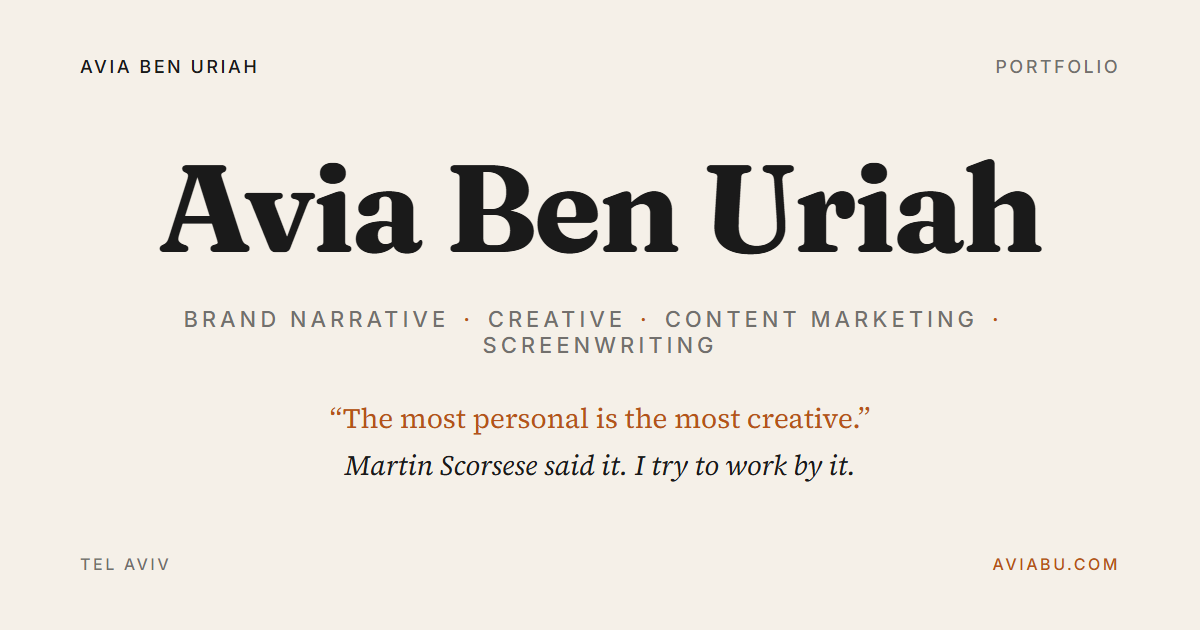
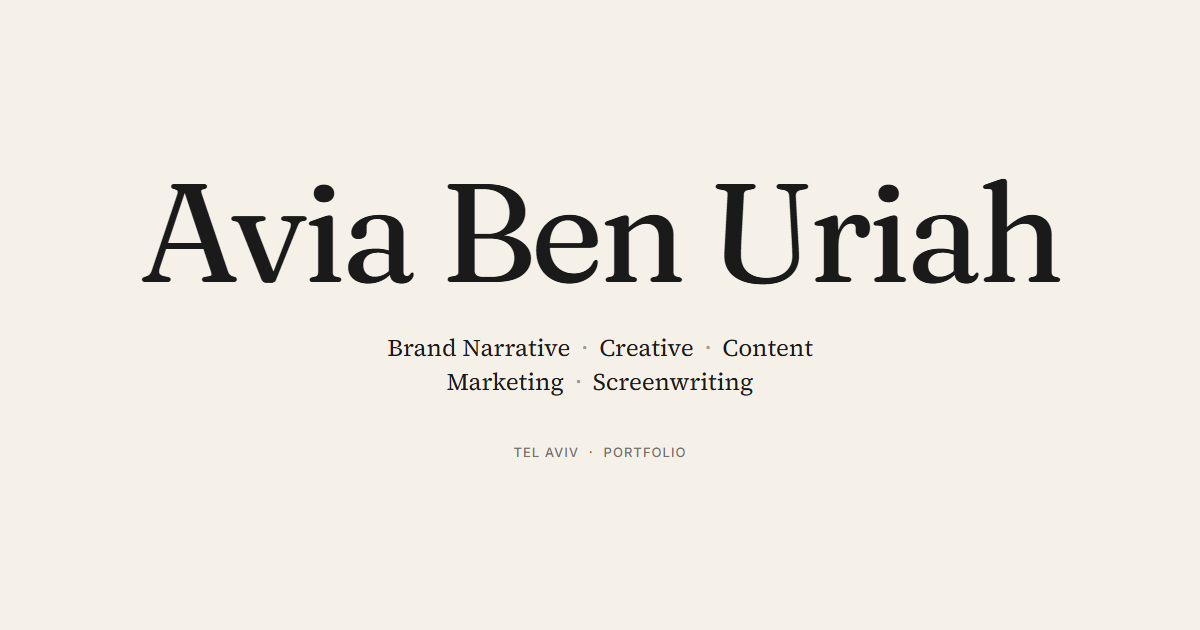
Update Open Graph images and enhance styling in og.html; add new font-face and adjust layout

diff --git a/site/og.html b/site/og.html
@@ -7,6 +7,13 @@
     <style>
         @font-face {
             font-family: "Fraunces";
+            src: url("fonts/fraunces-v38-latin-regular.woff2") format("woff2");
+            font-weight: 400;
+            font-style: normal;
+            font-display: block;
+        }
+        @font-face {
+            font-family: "Fraunces";
             src: url("fonts/fraunces-v38-latin-700.woff2") format("woff2");
             font-weight: 700;
             font-style: normal;
@@ -37,6 +44,7 @@
         :root {
             --paper: #F5F0E8;
             --ink: #1A1A1A;
+            --ink-40: rgba(26, 26, 26, 0.40);
             --ink-60: rgba(26, 26, 26, 0.60);
             --rust: #B4531A;
         }
@@ -55,114 +63,80 @@
             font-family: "Source Serif 4", Georgia, serif;
             display: flex;
             flex-direction: column;
-            justify-content: space-between;
-            box-sizing: border-box;
-            padding: 56px 80px;
-        }
-
-        .top {
-            display: flex;
-            justify-content: space-between;
-            align-items: baseline;
-            font-family: "Inter", system-ui, sans-serif;
-            font-weight: 500;
-            font-size: 18px;
-            letter-spacing: 0.14em;
-            text-transform: uppercase;
-            color: var(--ink);
-        }
-
-        .top__meta { color: var(--ink-60); }
-
-        .hero {
-            flex: 1;
-            display: flex;
-            flex-direction: column;
+            align-items: center;
             justify-content: center;
+            box-sizing: border-box;
+            padding: 80px 96px;
             text-align: center;
         }
 
         .name {
             font-family: "Fraunces", Georgia, serif;
-            font-weight: 700;
-            font-size: 124px;
-            line-height: 1;
-            letter-spacing: -0.02em;
+            font-weight: 400;
+            font-variation-settings: "opsz" 144;
+            font-size: 140px;
+            line-height: 0.9;
+            letter-spacing: -0.03em;
             color: var(--ink);
-            margin: 0 0 36px;
+            margin: 0;
             white-space: nowrap;
         }
 
         .disciplines {
-            font-family: "Inter", system-ui, sans-serif;
-            font-weight: 500;
-            font-size: 22px;
-            letter-spacing: 0.18em;
-            text-transform: uppercase;
-            color: var(--ink-60);
-            margin: 0 0 40px;
+            margin: 36px 0 0;
+            max-width: 44ch;
+            font-family: "Source Serif 4", Georgia, serif;
+            font-weight: 400;
+            font-style: normal;
+            font-size: 24px;
+            line-height: 1.4;
+            color: var(--ink);
         }
 
         .disciplines .dot {
-            display: inline-block;
-            margin: 0 14px;
-            color: var(--rust);
+            color: var(--ink-40);
+            margin: 0 0.45em;
         }
 
         .standfirst {
+            margin: 32px 0 0;
+            max-width: 36ch;
             font-family: "Source Serif 4", Georgia, serif;
-            font-size: 28px;
-            line-height: 1.45;
-            margin: 0;
-        }
-
-        .standfirst__quote {
-            color: var(--rust);
-            display: block;
-        }
-
-        .standfirst__attr {
             font-style: italic;
+            font-weight: 400;
+            font-size: 22px;
+            line-height: 1.45;
             color: var(--ink);
-            display: block;
-            margin-top: 6px;
         }
 
-        .bottom {
-            display: flex;
-            justify-content: space-between;
-            align-items: baseline;
-            font-family: "Inter", system-ui, sans-serif;
+        .standfirst em {
+            font-style: italic;
+        }
+
+        .dateline {
+            margin: 44px 0 0;
+            font-family: "Inter", "Helvetica Neue", Arial, sans-serif;
             font-weight: 500;
-            font-size: 16px;
-            letter-spacing: 0.16em;
+            font-size: 13px;
+            letter-spacing: 0.08em;
             text-transform: uppercase;
+            line-height: 1.4;
             color: var(--ink-60);
         }
 
-        .bottom__url { color: var(--rust); }
+        .dateline .dot {
+            color: var(--rust);
+            margin: 0 0.4em;
+        }
     </style>
 </head>
 <body>
-    <div class="top">
-        <span>Avia Ben Uriah</span>
-        <span class="top__meta">Portfolio</span>
-    </div>
-
-    <div class="hero">
-        <h1 class="name">Avia Ben Uriah</h1>
-        <p class="disciplines">
-            Brand Narrative<span class="dot">·</span>Creative<span class="dot">·</span>Content Marketing<span class="dot">·</span>Screenwriting
-        </p>
-        <p class="standfirst">
-            <span class="standfirst__quote">&ldquo;The most personal is the most creative.&rdquo;</span>
-            <span class="standfirst__attr">Martin Scorsese said it. I try to work by it.</span>
-        </p>
-    </div>
-
-    <div class="bottom">
-        <span>Tel Aviv</span>
-        <span class="bottom__url">aviabu.com</span>
-    </div>
+    <h1 class="name">Avia Ben Uriah</h1>
+    <p class="disciplines">
+        Brand Narrative<span class="dot">·</span>Creative<span class="dot">·</span>Content Marketing<span class="dot">·</span>Screenwriting
+    </p>
+    <p class="dateline">
+        Tel Aviv <span class="dot">·</span> Portfolio
+    </p>
 </body>
 </html>
